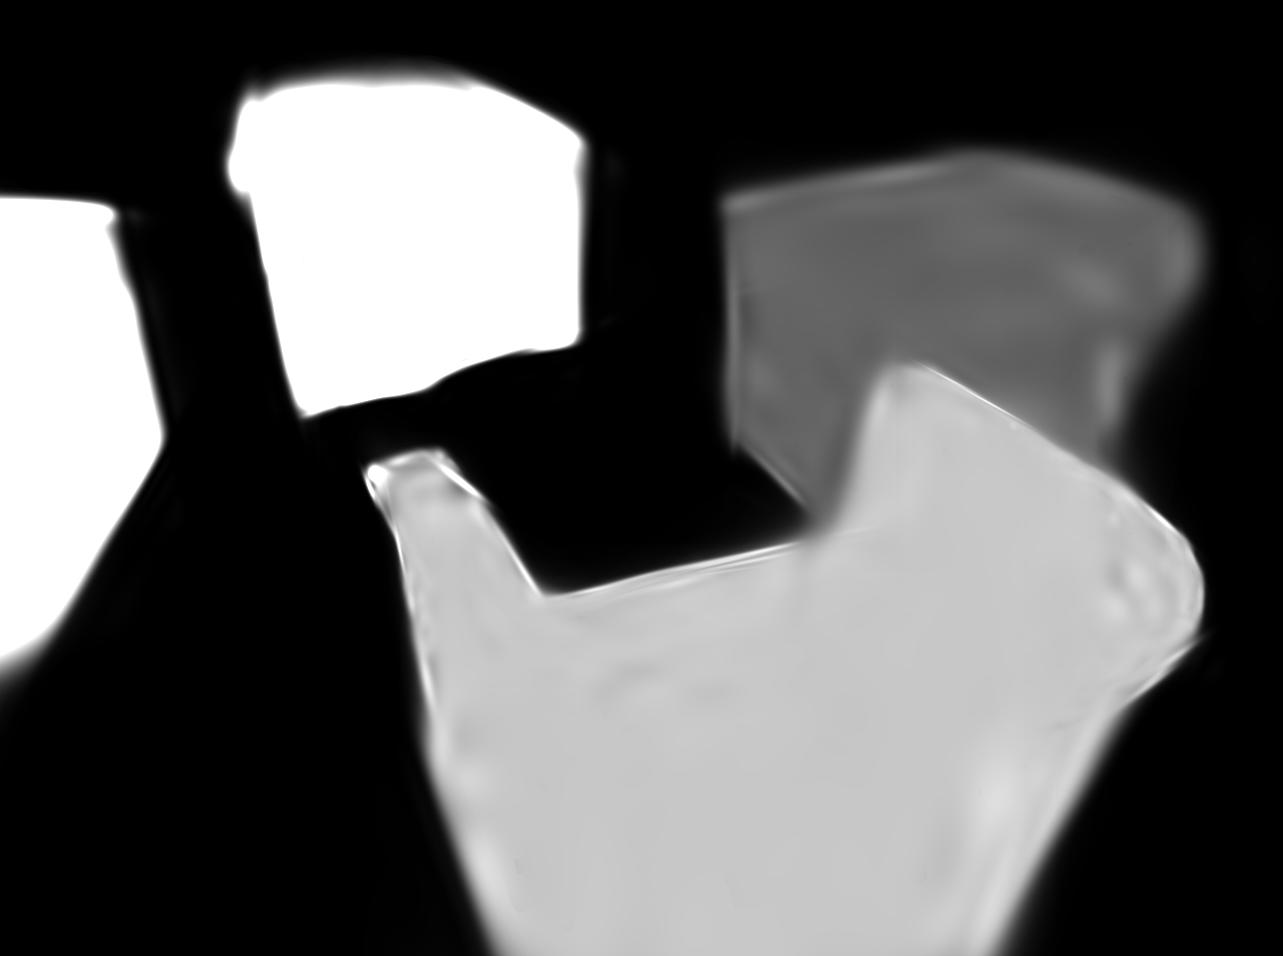
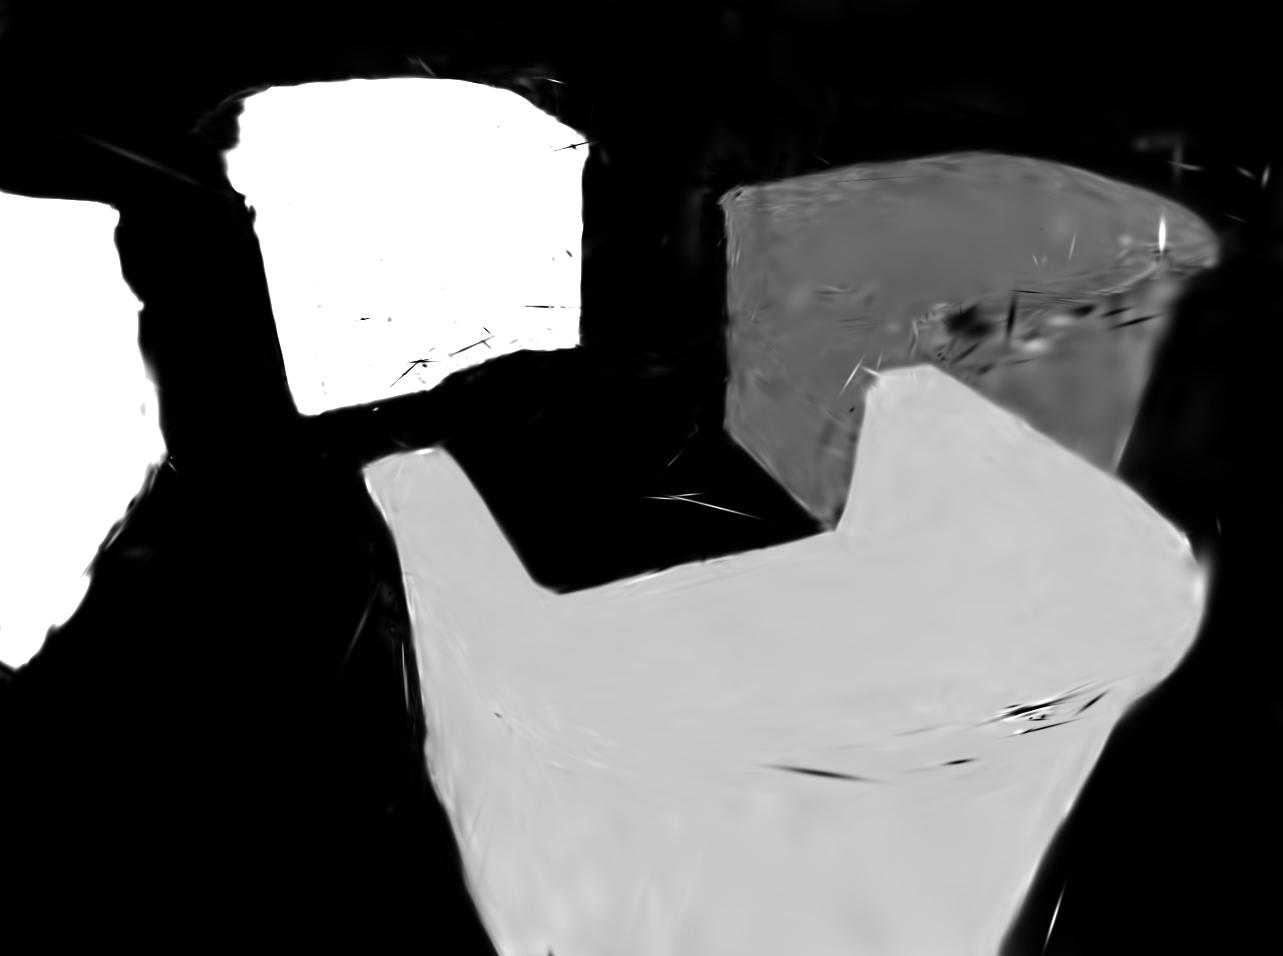
worked on improving instances (before making breaking changes other
other than *100 and having one only red channel instead of all channels

diff --git a/train.py b/train.py
@@ -93,12 +93,11 @@ def training(dataset, opt, pipe, testing_iterations, saving_iterations, checkpoi
         
         # print("image shape is", image.permute(2, 1, 0).shape)
 
-        plt.imsave("test_output/image.jpg", image.permute(1, 2, 0).clamp(0, 1).cpu().detach().numpy());
 
         instance_image = render_pkg["instance_render"]
         gt_instance_image = viewpoint_cam.instance_image.cuda()
         print("gt: ", torch.unique(gt_instance_image))
-        print("it: ", torch.unique(instance_image))
+        # print("it: ", torch.unique(instance_image))
 
         # Loss
         gt_image = viewpoint_cam.original_image.cuda()
@@ -109,12 +108,10 @@ def training(dataset, opt, pipe, testing_iterations, saving_iterations, checkpoi
 
         loss = (1.0 - opt.lambda_dssim) * Ll1 + opt.lambda_dssim * (1.0 - ssim(image, gt_image)) + lambda_instance_loss*Ll1_instance
 
-        print(f"Instance loss is {Ll1_instance}")
+        # print(f"Instance loss is {Ll1_instance}")
         loss.backward()
 
-
-
-        print("instance image shape: ", instance_image.shape)
+        # print("instance image shape: ", instance_image.shape)
         # plt.imsave("test_output/image.jpg", image.permute(1, 2, 0).cpu().detach().numpy());
         def export_instance_image(image):
             # print(torch.unique(image))
@@ -123,9 +120,11 @@ def training(dataset, opt, pipe, testing_iterations, saving_iterations, checkpoi
             # print(torch.max(image))
             to_pil = ToPILImage()
             image_bw = to_pil(image)
-            image_bw.save("test_output/instance_image.jpg")
+            image_bw.save(f"test_output/instance_image_{iteration}.jpg")
 
-        export_instance_image(instance_image.cpu().detach())
+        if iteration % 1000 == 0:
+            plt.imsave(f"test_output/image_{iteration}.jpg", image.permute(1, 2, 0).clamp(0, 1).cpu().detach().numpy());
+            export_instance_image(instance_image.cpu().detach())
         # export_instance_image(gt_instance_image)
 
 

diff --git a/scene/gaussian_model.py b/scene/gaussian_model.py
@@ -213,13 +213,14 @@ class GaussianModel:
         f_rest = self._features_rest.detach().transpose(1, 2).flatten(start_dim=1).contiguous().cpu().numpy()
         opacities = self._opacity.detach().cpu().numpy()
         # TODO: add saving of instances here
+        instance = self._instance.detach().cpu().numpy()
         scale = self._scaling.detach().cpu().numpy()
         rotation = self._rotation.detach().cpu().numpy()
 
         dtype_full = [(attribute, 'f4') for attribute in self.construct_list_of_attributes()]
 
         elements = np.empty(xyz.shape[0], dtype=dtype_full)
-        attributes = np.concatenate((xyz, normals, f_dc, f_rest, opacities, scale, rotation), axis=1)
+        attributes = np.concatenate((xyz, normals, f_dc, f_rest, opacities, instance, scale, rotation), axis=1)
         elements[:] = list(map(tuple, attributes))
         el = PlyElement.describe(elements, 'vertex')
         PlyData([el]).write(path)

diff --git a/scene/dataset_readers.py b/scene/dataset_readers.py
@@ -106,8 +106,8 @@ def readColmapCameras(cam_extrinsics, cam_intrinsics, images_folder):
 
         
         # print(f"images folder {images_folder}\n")
-        print(f"loading image with {instance_image_path}\n")
-        print(f"loading image with {images_folder}\n")
+        # print(f"loading image with {instance_image_path}\n")
+        # print(f"loading image with {images_folder}\n")
 
         cam_info = CameraInfo(uid=uid, R=R, T=T, FovY=FovY, FovX=FovX, image=image,
                               image_path=image_path, image_name=image_name, width=width, height=height,

diff --git a/utils/camera_utils.py b/utils/camera_utils.py
@@ -58,8 +58,9 @@ def loadCam(args, id, cam_info, resolution_scale):
 def cameraList_from_camInfos(cam_infos, resolution_scale, args):
     camera_list = []
 
-    print("TODO: remove first 10 processing!!")
-    for id, c in enumerate(cam_infos[:1]):
+    # print("TODO: remove first 10 processing!!")
+    for id, c in enumerate(cam_infos[:10]):
+    # for id, c in enumerate(cam_infos):
         camera_list.append(loadCam(args, id, c, resolution_scale))
 
     return camera_list

diff --git a/scene/cameras.py b/scene/cameras.py
@@ -38,7 +38,7 @@ class Camera(nn.Module):
 
         self.original_image = image.clamp(0.0, 1.0).to(self.data_device)
 
-        self.instance_image = (instance_image.clamp(0.0, 1.0)*100).to(self.data_device)
+        self.instance_image = (instance_image.clamp(0.0, 1.0)*10).to(self.data_device)
 
         self.image_width = self.original_image.shape[2]
         self.image_height = self.original_image.shape[1]

diff --git a/gaussian_renderer/__init__.py b/gaussian_renderer/__init__.py
@@ -98,6 +98,8 @@ def render(viewpoint_camera, pc : GaussianModel, pipe, bg_color : torch.Tensor, 
     # Rasterize instance gaussain
     instance_shs = torch.zeros_like(shs)
     instance_shs[:, 0] = pc.get_instance
+    instance_shs[:, 1] = pc.get_instance
+    instance_shs[:, 2] = pc.get_instance
 
     rendered_instance_image, radii = rasterizer(
         means3D = means3D,
